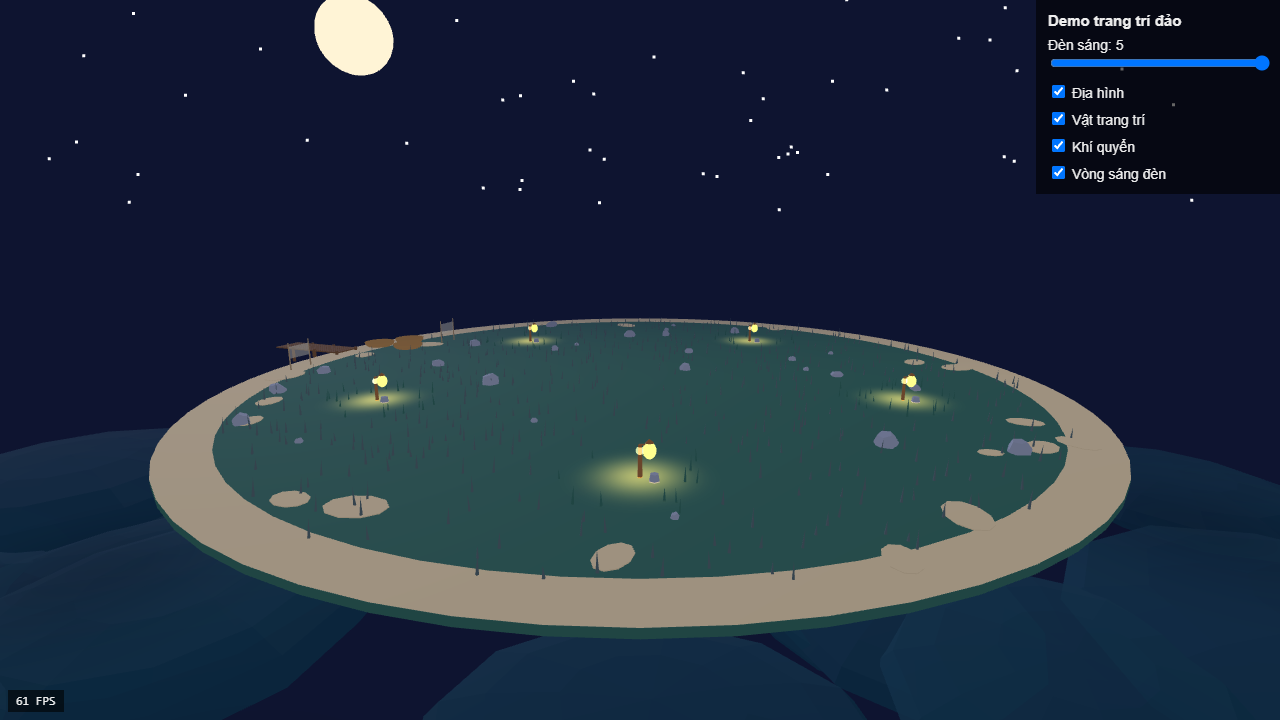
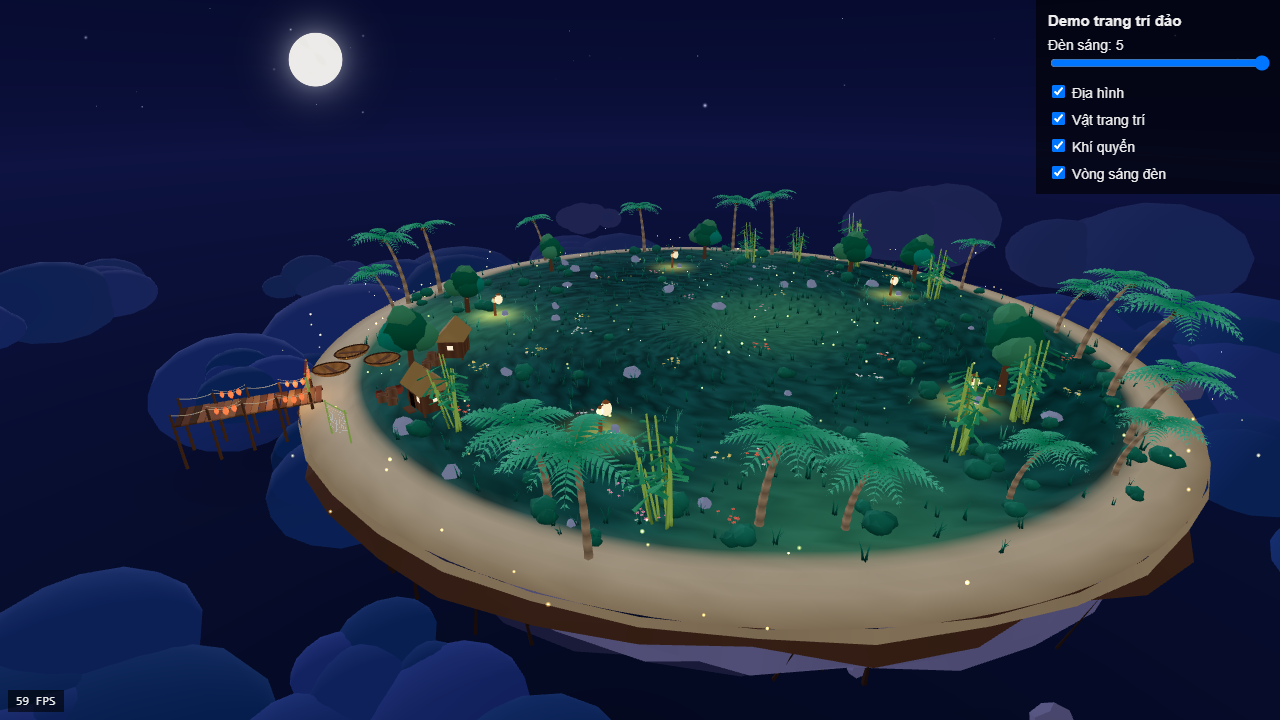
docs(decor): refresh demo evidence after visual overhaul

diff --git a/evidence/decor-demo/README.md b/evidence/decor-demo/README.md
@@ -1,22 +1,26 @@
-# Bang chung demo trang tri dao (Dem 1)
+# Bang chung demo trang tri dao (Dem 1) - ban nang cap hinh anh
 
 ## Cach mo demo
 `npm run dev` roi mo http://localhost:5173/decor-demo.html?lit=5
-(`lit` = so den long da sang, 0 den 5; co the keo thanh truot trong bang dieu khien).
+- `lit` = so den long da sang (0..5).
+- `cam=overview|dock|trees` = goc may quay dat san (mac dinh overview).
+- `bloom=0` = tat UnrealBloomPass (render thang, van ACES + sRGB).
 
-## Anh chup (1280x720, Dem 1)
-- `night1-lit0.png` (`?lit=0`): troi dem co sao va trang trong khung hinh, dao toi voi co xanh duc, vien cat am, suong mo tham duoi vien dao (khong con o chu nhat), cau tau go va thuyen thung (da phong to) o ben trai, den long tat (khong co vong sang).
-- `night1-lit5.png` (`?lit=5`): cung canh, 5 den long sang voi vong sang vang quanh moi den, co quanh den chuyen sang xanh la.
-- Keo thanh truot ve 0 sau khi `lit=5`: vong sang va co tat het (da kiem tra, anh tam).
+## Thay doi chinh
+- Dia hinh: mat co nhap nho (nhieu sin, toi da ~0.24 m, phang trong 3 m quanh den/diem xuat phat), mau co bien thien theo dinh, vien cat doc xuong mep, vach da nhieu tang (flatShading), re cay treo va da troi duoi dao.
+- Cay coi: dua/cau than cong co dot, 9 la kep ru; bui tre co dot va chum la; cay tan tron 5 khoi la 3 tong xanh, day toi; bui duoi goc cay; cum hoa nhieu mau; tuft co 5 la gradient. Co lac nhe theo gio (update).
+- Lang chai: cau tau go (van lech mau, dam, coc, lan can day thung), cong tre treo den giay do, thuyen thung dan (Lathe, vanh dam), luoi tren khung tre, 2 nha tranh co cua so am, thung go va chum sanh.
+- Khi quyen: bau troi gradient, sao lap lanh, trang tron (billboard) co quang, bien may khoi phong nhap nho, dom dom (Points + additive shader).
+- Demo: ACES + sRGB + UnrealBloomPass (EffectComposer) + resize; khung may moi.
 
-Pham vi tam thoi: chi Dem 1 (CLI headless hien chi ho tro `--night 1`).
+## Anh chup (1280x720)
+- `night1-lit0.png` (`?lit=0&bloom=0`): dao toi, chi cau tau va nha tranh am.
+- `night1-lit5.png` (`?lit=5&bloom=0`): 5 den sang, co quanh den am.
+- `night1-dock-closeup.png` (`?lit=5&bloom=0&cam=dock`): can canh cau tau, thuyen thung, luoi, nha, chum.
+- `night1-lit5-bloom.png` (`?lit=5`, bloom bat): xem ghi chu ben duoi.
 
-## FPS
-- lit=0: 61 FPS; lit=5: 61 FPS (doc tu phan tu `#fps` sau ~5 s).
-- Do trong trinh duyet headless/automation (chrome-devtools), co the khac tren may that.
-- Console: khong co thong bao nao.
+Ghi chu: trinh duyet automation dung de chup (GPU bao "Adreno 612" qua ANGLE) render moi render-target bi lech/ho vuong (ca khi chi co RenderPass + OutputPass), nen anh co bloom co vet soc va khoi vuong. Ma bloom dung chuan three r170; can kiem tra lai tren may that. Anh chinh chup voi `bloom=0`.
 
-## Kiem tra khong anh huong
-- Headless: `node dist-headless/headless.mjs --seed 1 --night 1 --ticks 3600` sau `npm run build`, so voi baseline truoc Task 1: `diff` rong (giong het, 76 dong). Dem 2/3: CLI tu choi (`only --night 1 is supported`), bo qua.
-- `git diff --stat 9292267..HEAD --diff-filter=M`: rong (khong sua file cu). `--diff-filter=D`: rong.
-- `npm test`: 21 file, 125 test, tat ca PASS.
+## FPS (#fps, sau ~5 s)
+- lit=0, bloom=0: 61 FPS; lit=5, bloom=0: 61 FPS; lit=5 bloom bat: ~47 FPS.
+- Console: khong co loi.
